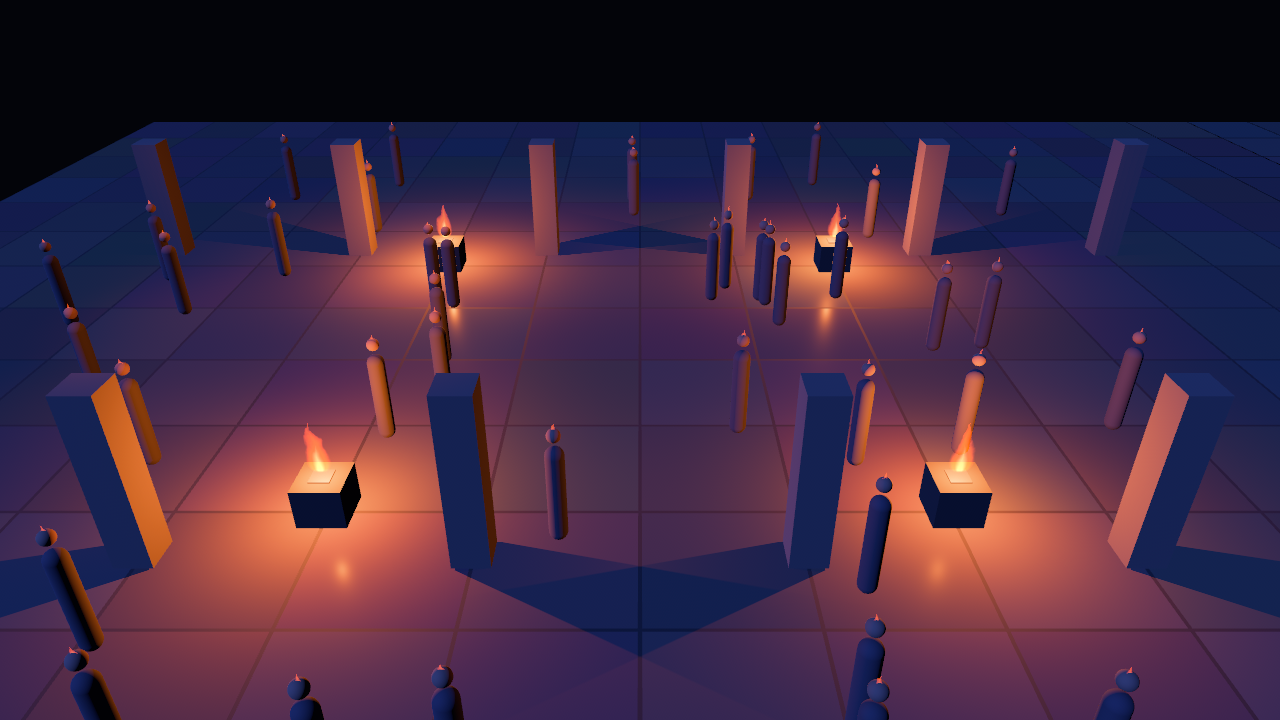
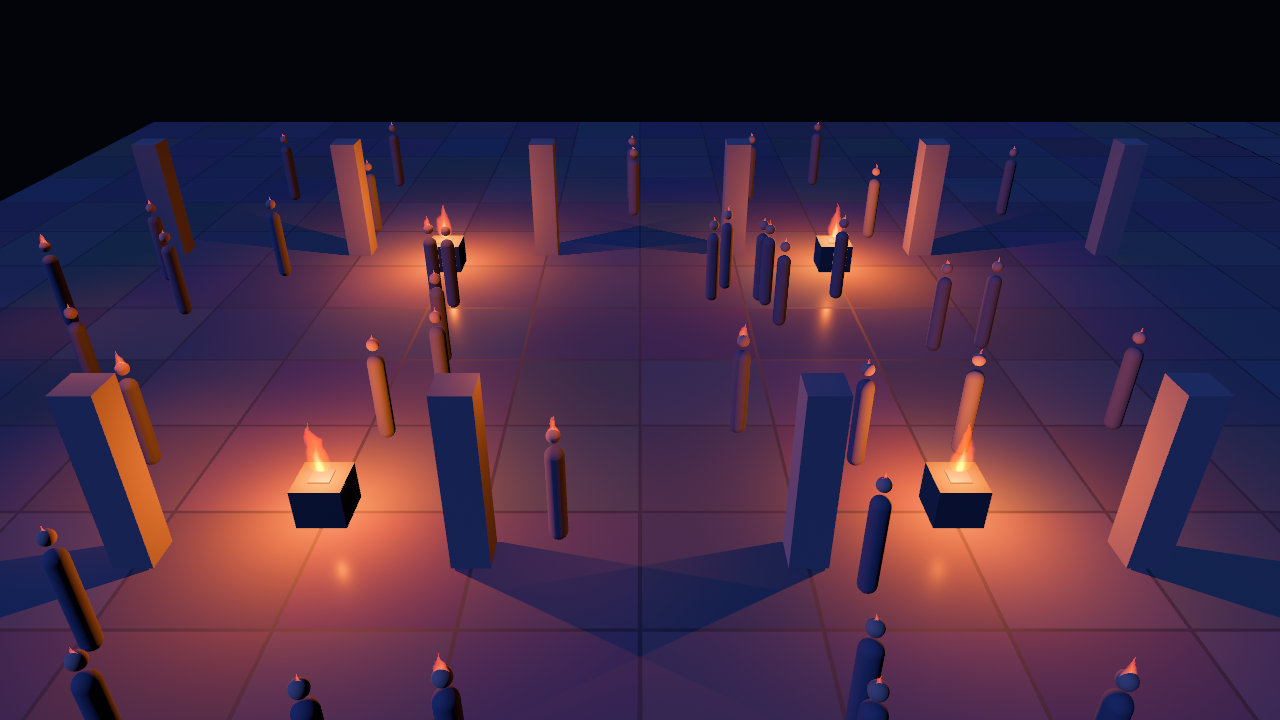
Docs, changelog, README and media: the pool's rank

diff --git a/docs/loop-log.md b/docs/loop-log.md
@@ -1146,3 +1146,64 @@ wasm32-unknown-unknown`, `tools/wesl-check` — all pass. CI runs `cargo test`, 
    an atlas.
 5. **The validator's other stubs are still identities** — `position_world_to_clip` and `view` return
    placeholder values, so a shader that misuses *those* is checked no further than its types.
+
+## Iteration 12 — 2026-10-26 — a light's rank is its contribution, and a claim of mine was wrong
+
+### The correction first
+
+Backlog item 5 was "the validator's other stubs are still identities, so a shader misusing `view` or
+`position_world_to_clip` is only type-checked". Testing the premise killed it: `tools/wesl-check`
+**compiles** each module and never runs it, so a stub's *body* is never evaluated and only its signature is
+checked. Reverting iteration 10's `get_world_from_local` stub to the identity still passes, and a deliberate
+type error in the fragment still fails — proof both ways. So iteration 10's claim that the identity stub was
+a blind spot was **wrong**, the change it made to that stub changed nothing, and item 5 rested on the same
+mistake. Both records are corrected, and item 5 is struck in the backlog.
+
+### What was built instead
+
+The pool ranked candidates by **distance alone**, so a 2 m torch displaced a 3 m brazier burning 25× the
+lumens. That is the craft's "proximity to the subject" rule with half of it missing: what the eye reads is
+how much light *arrives*, which is output over the square of distance.
+
+`LightPool::rank` picks the rule: `Rank::Illuminance` (the new default, key `intensity / distance²`) or
+`Rank::Distance` (the old behaviour, kept so a host can switch it off). The rank key and the distance are
+carried separately in the assignment tuple, because they answer different questions: *which* lights should
+be real is about what arrives, while the overlap rule is about how far it has to travel.
+
+### The measurements
+
+- A torch at 2 m burning 8 000 lm against a brazier at 3 m burning 60 000 lm: `Illuminance` gives the light
+  to the **brazier**, `Distance` to the **torch**. The test pairs each rule with its answer, so it
+  validates both arms.
+- Four times the light at twice the distance ranks **equal**, and the tie breaks on `Entity` — the inverse
+  square, exactly, and the determinism that depends on it.
+- `gain` never reshuffles which lights are real: a quarter-gain night has the same slot in the same place at
+  a quarter the brightness.
+- `the_pools_default_rank_is_illuminance` pins the default, so changing it is a decision and not a slip;
+  with the default flipped to `Distance` that test fails.
+
+### The demo, and an honest limit
+
+The courtyard could not show the rule at all: every `PoolCandidate` is a torch at one intensity, and the two
+rules gave **bit-identical** frames. Rather than claim a demonstration, one bearer in six now carries a
+lantern — four times the lumens, a taller flame, the case the old rule got wrong. With that the rules give
+different frames (RMSE 2 %, mean 58.17 against 57.44), and the illuminance rule puts the real lights where
+the bright sources are.
+
+### The gate
+
+`cargo build --release`, `cargo build`, `cargo test` (**74 tests**), `cargo test --features serde`,
+`cargo build --examples --all-features`, `cargo clippy --all-targets --all-features -- -D warnings`,
+`RUSTDOCFLAGS="-D warnings" cargo doc`, `cargo fmt --check`, `cargo build --lib --target
+wasm32-unknown-unknown`, `tools/wesl-check` — all pass.
+
+### Top 5 remaining, ranked
+
+1. **The flicker amplitude, still uncited** (blocked: Maynard 2013 unobtainable).
+2. **An `elements` feature** authoring the fill against `bevy_elements`' exposure.
+3. **The flagstones cost 256 draw calls** — recorded next to the look they buy; a crate-scale floor wants
+   an atlas.
+4. **The bench should report the pool's work**, not only the total: `Rank::Illuminance` adds a division per
+   candidate per frame, and the whole-frame p50 does not separate that from the flicker's cost.
+5. **A `Rank::Weighted`** for a host that wants gameplay priority (a carried torch matters more than a
+   brazier): the rank key would take a per-candidate multiplier.

diff --git a/docs/research/light-pool.md b/docs/research/light-pool.md
@@ -111,6 +111,15 @@ because a behaviour change in a released crate should be switchable).
 - `gain` still multiplies the written intensity and never the rank: a dimmer night does not reshuffle which
   lights are real.
 
+**What the demo showed, before and after a change to make it visible.** With the courtyard's candidates all
+at one intensity, `Illuminance` and `Distance` chose the *same* lights and the two captures had identical
+hashes — the rule is invisible when every candidate burns alike. So one bearer in six now carries a
+**lantern** (four times the lumens, a taller flame), which is the case the old rule got wrong: same
+distance, very different output. With that, the two rules give different frames (RMSE 2 %, mean 58.17
+against 57.44): under `Illuminance` the lanterns are the lights that get handed a real one, so the warm
+pools on the bearers are where the bright sources are, and the frame's light is more evenly carried into
+the middle distance.
+
 **Deviations.** The rank is per candidate and per frame, so the pool's cost gains a division per candidate
 per frame — the bench measures it. A host that wants a different weighting (size, colour, a gameplay
 priority) has `Rank::Distance` plus its own candidate intensities to scale by; a third variant is not

diff --git a/README.md b/README.md
@@ -31,7 +31,9 @@ pool hands its real lights between torches without a pop. Longer run: [`courtyar
   (`LightPool::size`, default 16) is handed every frame to the `PoolCandidate`s nearest the one entity
   carrying your focus marker, each light at the candidate's position plus its own world-space offset.
   Everything else is a flame and nothing else. The assignment is deterministic: distance, then
-  `Entity`. A slot keeps the candidate it holds until a challenger is `hysteresis` times nearer
+  `Entity`. A candidate is ranked by the **light it puts on the subject** (`intensity / distance²`), not by
+  its distance alone, so a bright brazier at 3 m outranks a dim torch at 2 m; `LightPool::rank` switches to
+  `Rank::Distance` for the old rule. A slot keeps the candidate it holds until a challenger is `hysteresis` times nearer
   (default 1.15, the overlap rule), and a slot that does change owner fades back up over
   `fade_seconds` (0.35 s) rather than popping. `reserve` (default 1) keeps a spare light so the owner
   a hand-off leaves behind fades *out* at the same time: the subject's light is continuous through the

diff --git a/CHANGELOG.md b/CHANGELOG.md
@@ -6,6 +6,12 @@ All notable changes to bevy_lights. The format follows [Keep a Changelog](https:
 
 ### Added
 
+- **The pool ranks a candidate by the light it contributes, not by its distance.** `LightPool::rank`
+  defaults to `Rank::Illuminance`, which orders candidates by `intensity / distance²` — so a brazier at
+  3 m burning 60 000 lm takes a real light from a torch at 2 m burning 8 000, where the old rule gave it to
+  the torch. `Rank::Distance` restores the old behaviour. The overlap rule, the hand-offs and the reserve
+  are unchanged.
+
 - **A flame is redder while its fire catches.** The shader's ramp is pulled towards an ember red as a
   fire kindles and released as it takes, so the catch reads as a young fire and not as a steady one
   switching on. Driven by the same `kindle_gain` envelope as the light and the flame's growth, and carried
